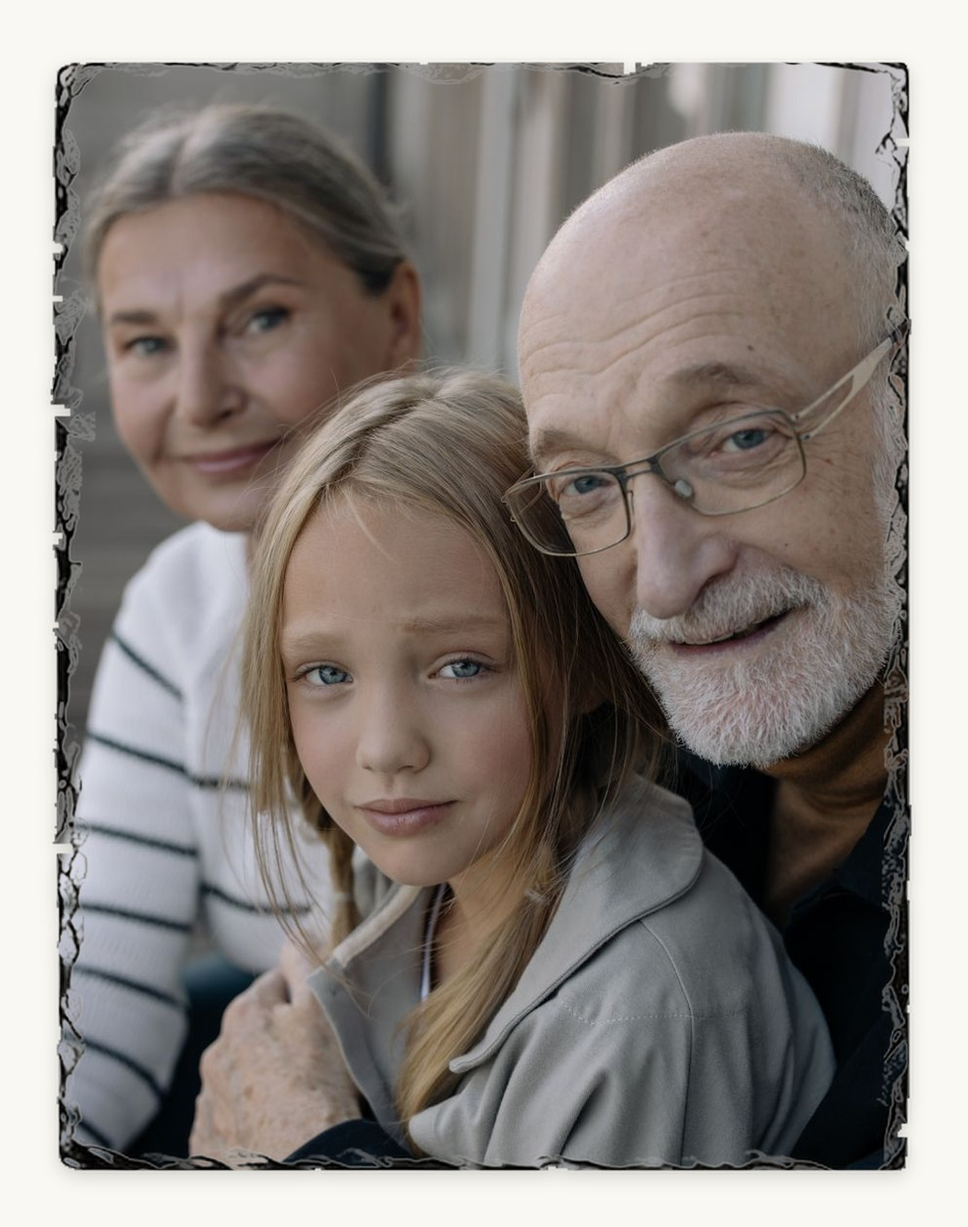
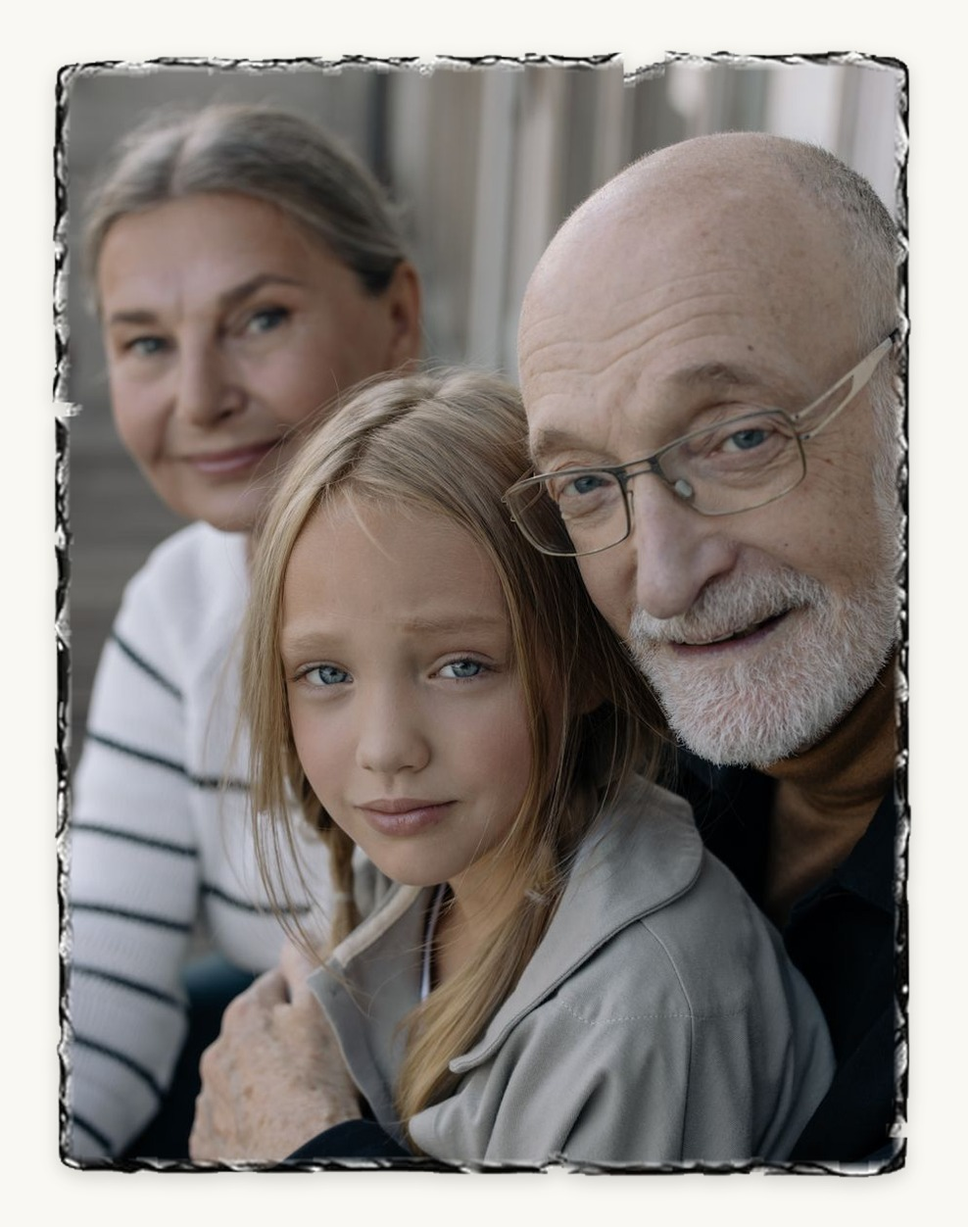
Lead with children's artwork on photographed cases and fix slate sample gaps

Changed region(s): [[0.0607, 0.0312, 0.9413, 0.9657], [0.0304, 0.1246, 0.0911, 0.8722]]

diff --git a/index.html b/index.html
@@ -27,46 +27,61 @@
 <section class="case-edit" aria-roledescription="carousel" aria-labelledby="hero-title">
   <h1 id="hero-title" class="edit-status">Featured Keepsake phone cases</h1>
   <div class="edit-window">
-      <article class="case-slide scene-city scene-new-york" role="group" aria-roledescription="slide" aria-label="1 of 8: New York, Times Square Rain">
+      <article class="case-slide scene-drawing" role="group" aria-roledescription="slide" aria-label="1 of 9: I love you Dad">
         <div class="case-story">
-          <button type="button" class="edit-phone hero-case-zoom" aria-label="Enlarge Times Square Rain"><img src="assets/collection-cases/city-night-new-york.webp" width="382" height="760" alt="" fetchpriority="high"></button>
+          <a class="edit-phone drawing-product" href="customizer.html?studio=drawing&amp;model=iphone-15-pro-max#personalStudio" aria-label="Make a case from your child’s drawing">
+            <img id="drawingHeroCase" src="assets/home/personal/drawing-shell.webp" width="912" height="1731" fetchpriority="high" alt="A clear case with an open camera cutout and the original coral I love you Dad note, complete with its hand-drawn stick figure">
+          </a>
+          <div class="campaign-copy">
+            <span class="campaign-collection">Your child’s artwork, printed on a case</span>
+            <strong class="campaign-title">“I love you Dad”</strong>
+            <div class="drawing-actions">
+              <a class="campaign-shop" href="customizer.html?studio=drawing&amp;model=iphone-15-pro-max#personalStudio">Make your own case</a>
+              <button class="hero-case-zoom drawing-zoom" type="button" data-image-zoom="drawingHeroCase" aria-label="Enlarge the I love you Dad case">Zoom</button>
+            </div>
+          </div>
+        </div>
+      </article>
+      <article class="case-slide scene-city scene-new-york" role="group" aria-roledescription="slide" aria-label="2 of 9: New York, Times Square Rain" hidden>
+        <div class="case-story">
+          <button type="button" class="edit-phone hero-case-zoom" aria-label="Enlarge Times Square Rain"><img src="assets/home/case-edit/new-york-shell.webp" width="912" height="1731" alt="" loading="lazy"></button>
           <div class="campaign-copy">
             <span class="campaign-collection">City After Dark · New York</span>
             <strong class="campaign-title">Times Square Rain</strong>
             <div class="campaign-actions">
-              <a class="campaign-shop" href="customizer.html?model=iphone-18-pro-max&amp;design=city-night-new-york.jpg" aria-label="Customize this case, Times Square Rain">Customize this case</a>
+              <a class="campaign-shop" href="customizer.html?model=iphone-15-pro-max&amp;design=city-night-new-york.jpg" aria-label="Customize this case, Times Square Rain">Customize this case</a>
               <a class="campaign-browse" href="gallery.html?cat=City%20Scenes">Shop all City After Dark</a>
             </div>
           </div>
         </div>
       </article>
-      <article class="case-slide scene-city scene-philadelphia" role="group" aria-roledescription="slide" aria-label="2 of 8: Philadelphia, City Hall in Silver" hidden>
+      <article class="case-slide scene-city scene-philadelphia" role="group" aria-roledescription="slide" aria-label="3 of 9: Philadelphia, City Hall in Silver" hidden>
         <div class="case-story">
-          <button type="button" class="edit-phone hero-case-zoom" aria-label="Enlarge City Hall in Silver"><img src="assets/collection-cases/city-night-philadelphia.webp" width="382" height="760" alt="" loading="lazy"></button>
+          <button type="button" class="edit-phone hero-case-zoom" aria-label="Enlarge City Hall in Silver"><img src="assets/home/case-edit/philadelphia-shell.webp" width="912" height="1731" alt="" loading="lazy"></button>
           <div class="campaign-copy">
             <span class="campaign-collection">City After Dark · Philadelphia</span>
             <strong class="campaign-title">City Hall in Silver</strong>
             <div class="campaign-actions">
-              <a class="campaign-shop" href="customizer.html?model=iphone-18-pro-max&amp;design=city-night-philadelphia.jpg" aria-label="Customize this case, City Hall in Silver">Customize this case</a>
+              <a class="campaign-shop" href="customizer.html?model=iphone-15-pro-max&amp;design=city-night-philadelphia.jpg" aria-label="Customize this case, City Hall in Silver">Customize this case</a>
               <a class="campaign-browse" href="gallery.html?cat=City%20Scenes">Shop all City After Dark</a>
             </div>
           </div>
         </div>
       </article>
-      <article class="case-slide scene-city scene-los-angeles" role="group" aria-roledescription="slide" aria-label="3 of 8: Los Angeles, Freeway Lights" hidden>
+      <article class="case-slide scene-city scene-los-angeles" role="group" aria-roledescription="slide" aria-label="4 of 9: Los Angeles, Freeway Lights" hidden>
         <div class="case-story">
-          <button type="button" class="edit-phone hero-case-zoom" aria-label="Enlarge Freeway Lights"><img src="assets/collection-cases/city-night-los-angeles.webp" width="382" height="760" alt="" loading="lazy"></button>
+          <button type="button" class="edit-phone hero-case-zoom" aria-label="Enlarge Freeway Lights"><img src="assets/home/case-edit/los-angeles-shell.webp" width="912" height="1731" alt="" loading="lazy"></button>
           <div class="campaign-copy">
             <span class="campaign-collection">City After Dark · Los Angeles</span>
             <strong class="campaign-title">Freeway Lights</strong>
             <div class="campaign-actions">
-              <a class="campaign-shop" href="customizer.html?model=iphone-18-pro-max&amp;design=city-night-los-angeles.jpg" aria-label="Customize this case, Freeway Lights">Customize this case</a>
+              <a class="campaign-shop" href="customizer.html?model=iphone-15-pro-max&amp;design=city-night-los-angeles.jpg" aria-label="Customize this case, Freeway Lights">Customize this case</a>
               <a class="campaign-browse" href="gallery.html?cat=City%20Scenes">Shop all City After Dark</a>
             </div>
           </div>
         </div>
       </article>
-      <article class="case-slide scene-yosemite" role="group" aria-roledescription="slide" aria-label="4 of 8: Yosemite" style="--wash:#213932;--accent:#fff" data-alt-art="blaze-topo.webp" data-alt-variant="blaze-topo" data-alt-label="Shop Blaze Topo" hidden>
+      <article class="case-slide scene-yosemite" role="group" aria-roledescription="slide" aria-label="5 of 9: Yosemite" style="--wash:#213932;--accent:#fff" data-alt-art="blaze-topo.webp" data-alt-variant="blaze-topo" data-alt-label="Shop Blaze Topo" hidden>
         <div class="case-story">
           <button type="button" class="edit-phone hero-case-zoom" aria-label="Enlarge Yosemite"><svg viewBox="0 0 528 1078" aria-hidden="true" focusable="false">
 <defs><clipPath id="shell-yosemite"><path d="M114 13H414Q511 13 511 115V959Q511 1055 419 1055H111Q15 1055 15 960V117Q15 13 114 13Z"/></clipPath>
@@ -80,7 +95,7 @@
           </div>
         </div>
       </article>
-      <article class="case-slide" role="group" aria-roledescription="slide" aria-label="5 of 8: Cherry Dot" style="--wash:#f5d1d9;--accent:#b32140" hidden >
+      <article class="case-slide" role="group" aria-roledescription="slide" aria-label="6 of 9: Cherry Dot" style="--wash:#f5d1d9;--accent:#b32140" hidden >
         <div class="case-story">
           <button type="button" class="edit-phone hero-case-zoom" aria-label="Enlarge Cherry Dot"><svg viewBox="0 0 528 1078" aria-hidden="true" focusable="false">
 <defs><clipPath id="shell-0"><path d="M114 13H414Q511 13 511 115V959Q511 1055 419 1055H111Q15 1055 15 960V117Q15 13 114 13Z"/></clipPath>
@@ -94,7 +109,7 @@
           </div>
         </div>
       </article>
-      <article class="case-slide scene-hearts" role="group" aria-roledescription="slide" aria-label="6 of 8: Neon Hearts" style="--wash:#242044;--accent:#fff" hidden data-alt-art="neon-ice.webp" data-alt-variant="c2" data-alt-label="Shop Ice Pop">
+      <article class="case-slide scene-hearts" role="group" aria-roledescription="slide" aria-label="7 of 9: Neon Hearts" style="--wash:#242044;--accent:#fff" hidden data-alt-art="neon-ice.webp" data-alt-variant="c2" data-alt-label="Shop Ice Pop">
         <div class="case-story">
           <button type="button" class="edit-phone hero-case-zoom" aria-label="Enlarge Neon Hearts"><svg viewBox="0 0 528 1078" aria-hidden="true" focusable="false">
 <defs><clipPath id="shell-hearts"><path d="M114 13H414Q511 13 511 115V959Q511 1055 419 1055H111Q15 1055 15 960V117Q15 13 114 13Z"/></clipPath>
@@ -108,7 +123,7 @@
           </div>
         </div>
       </article>
-      <article class="case-slide" role="group" aria-roledescription="slide" aria-label="7 of 8: Wrong Way Duck" style="--wash:#c6e8cd;--accent:#215b43" hidden >
+      <article class="case-slide" role="group" aria-roledescription="slide" aria-label="8 of 9: Wrong Way Duck" style="--wash:#c6e8cd;--accent:#215b43" hidden >
         <div class="case-story">
           <button type="button" class="edit-phone hero-case-zoom" aria-label="Enlarge Wrong Way Duck"><svg viewBox="0 0 528 1078" aria-hidden="true" focusable="false">
 <defs><clipPath id="shell-1"><path d="M114 13H414Q511 13 511 115V959Q511 1055 419 1055H111Q15 1055 15 960V117Q15 13 114 13Z"/></clipPath>
@@ -122,7 +137,7 @@
           </div>
         </div>
       </article>
-      <article class="case-slide" role="group" aria-roledescription="slide" aria-label="8 of 8: Liquid Prism" style="--wash:#dcd4fb;--accent:#512f89" hidden >
+      <article class="case-slide" role="group" aria-roledescription="slide" aria-label="9 of 9: Liquid Prism" style="--wash:#dcd4fb;--accent:#512f89" hidden >
         <div class="case-story">
           <button type="button" class="edit-phone hero-case-zoom" aria-label="Enlarge Liquid Prism"><svg viewBox="0 0 528 1078" aria-hidden="true" focusable="false">
 <defs><clipPath id="shell-2"><path d="M114 13H414Q511 13 511 115V959Q511 1055 419 1055H111Q15 1055 15 960V117Q15 13 114 13Z"/></clipPath>
@@ -151,11 +166,11 @@
 <section class="section collection-feature" aria-labelledby="collections-title"><div class="section-heading"><div><p class="eyebrow">A STYLE FOR EVERY SIDE OF YOU</p><h2 id="collections-title">Find your next favorite.</h2></div><a class="text-link" href="gallery.html">Browse the library →</a></div><div class="collection-tiles"><a href="gallery.html?cat=Christmas"><img src="assets/designs/thumbs/christmas-festive-holiday-deer-and-botanical.jpg" width="440" height="520" loading="lazy" alt=""><span><small>THE HOLIDAY EDIT</small><strong>A little merry.</strong><b>Shop holiday →</b></span></a><a href="gallery.html?cat=Neon%20Doodles"><img src="assets/designs/thumbs/kp-neon-neon-recess.png" width="440" height="520" loading="lazy" alt=""><span><small>COLOR OUTSIDE THE LINES</small><strong>More is more.</strong><b>Shop neon doodles →</b></span></a><a href="seasonal-weather.html#rain"><img src="assets/designs/thumbs/kp-weather-window-seat.jpg" width="270" height="540" loading="lazy" alt="Raindrops on a window overlooking a green garden"><span><small>SEASONAL WEATHER</small><strong>Window Seat</strong><b>Explore the four scenes →</b></span></a></div><p class="section-note">Artwork details shown. Select your phone to see the case preview.</p></section>
 <section class="section collection-feature field-collections" aria-labelledby="field-title"><div class="section-heading"><h2 id="field-title">The photography collections.</h2></div><div class="collection-tiles"><a href="gallery.html?cat=Earth%20From%20Orbit"><img loading="lazy" src="assets/designs/thumbs/field-photo-yukon-delta-0.jpg" width="420" height="640" alt="Branching blue channels across the Yukon Delta"><span><strong>Earth From Orbit</strong><b>Explore the Landsat photographs →</b></span></a><a href="gallery.html?cat=Botanical%20Blueprints"><img loading="lazy" src="assets/designs/thumbs/field-photo-291506.jpg" width="420" height="640" alt="Pale branching seaweed on deep Prussian blue"><span><strong>Botanical Blueprints</strong><b>Explore Anna Atkins’s cyanotypes →</b></span></a></div></section>
 <section class="section collection-feature" aria-labelledby="personal-title"><div class="section-heading"><h2 id="personal-title">Made from your story.</h2></div><div class="collection-tiles personal-tiles">
-<a data-preview-link href="customizer.html?studio=drawing#personalStudio"><img src="assets/home/personal/drawing-case.webp" width="285" height="580" loading="lazy" alt="A coral handwritten I love you Dad note and stick figure fitted beneath the case camera"><span><strong>Their drawing, your case.</strong><b>Try your child’s artwork →</b></span></a>
-<a data-preview-link href="customizer.html?studio=sky#personalStudio"><img src="assets/home/personal/sky-case.webp" width="285" height="580" loading="lazy" alt="Edge-to-edge star map with a couple’s initials and linked zodiac signs on a midnight blue case"><span><strong>The night we met.</strong><b>Map your date →</b></span></a>
+<a data-preview-link href="customizer.html?studio=drawing&amp;model=iphone-15-pro-max#personalStudio"><img src="assets/home/personal/drawing-shell.webp" width="912" height="1731" loading="lazy" alt="The original coral I love you Dad drawing on a clear MagSafe case with a raised camera rim"><span><strong>Their drawing, your case.</strong><b>Try your child’s artwork →</b></span></a>
+<a data-preview-link href="customizer.html?studio=sky&amp;model=iphone-15-pro-max#personalStudio"><img src="assets/home/personal/sky-shell.webp" width="912" height="1731" loading="lazy" alt="Edge-to-edge star map with a couple’s initials and linked zodiac signs on a midnight blue case"><span><strong>The night we met.</strong><b>Map your date →</b></span></a>
 <a data-preview-link href="signature-golf.html"><img src="assets/home/signature-golf/pebble-original.webp?v=overhead" width="277" height="580" loading="lazy" alt="Overhead map of all 18 holes at Pebble Beach on a rugged case"><span><strong>Signature golf.</strong><b>Shop golf cases →</b></span></a>
 </div></section>
-<section class="gift-feature" aria-labelledby="gift-title"><div class="gift-photo"><span class="gift-tag">THE PHOTO GIFT EDIT</span><img src="assets/photos/slates/family-slate-preview.jpg" width="1252" height="988" loading="lazy" alt="Digital sample of a family photo on a slate with natural stone edges"><p>Digital preview on photographed slate. Each stone has its own edge.</p></div><div class="gift-copy"><p class="eyebrow">Off your camera roll. Into their everyday.</p><h2 id="gift-title">Some moments<br>deserve a<br><em>permanent spot.</em></h2><p>Your favorite people, printed on natural slate. Sized for a first apartment, a bedside shelf, or the desk you see every day.</p><div class="gift-price">From <strong>$29.99</strong><span>Three sizes · Display supports included</span></div><a class="button button-ink" href="slates.html">Discover photo slates <span aria-hidden="true">↗</span></a></div></section>
+<section class="gift-feature" aria-labelledby="gift-title"><div class="gift-photo"><span class="gift-tag">THE PHOTO GIFT EDIT</span><img src="assets/photos/slates/family-slate-preview.jpg?v=solid-stone-2" width="1252" height="988" loading="lazy" alt="Digital sample of a family photo on a slate with natural stone edges"><p>Digital preview on photographed slate. Each stone has its own edge.</p></div><div class="gift-copy"><p class="eyebrow">Off your camera roll. Into their everyday.</p><h2 id="gift-title">Some moments<br>deserve a<br><em>permanent spot.</em></h2><p>Your favorite people, printed on natural slate. Sized for a first apartment, a bedside shelf, or the desk you see every day.</p><div class="gift-price">From <strong>$29.99</strong><span>Three sizes · Display supports included</span></div><a class="button button-ink" href="slates.html">Discover photo slates <span aria-hidden="true">↗</span></a></div></section>
 <section class="section how-section" id="how-it-works" aria-labelledby="how-title"><div class="section-heading"><div><p class="eyebrow">Made personal. Made simple.</p><h2 id="how-title">From “love that”<br>to “that’s mine.”</h2></div><p>Browse here. Make it yours with our team.</p></div><ol class="steps"><li><span class="step-number">01</span><h3>Find your favorite.</h3><p>Explore the design library, or bring an original photo from your phone.</p></li><li><span class="step-number">02</span><h3>Make it personal.</h3><p>Choose your phone or gift size. Check the colorway, crop and any added name with a team member.</p></li><li><span class="step-number">03</span><h3>We’ll take it from here.</h3><p>Order at the counter. We’ll confirm case or slate availability and pickup timing before printing.</p></li></ol><a class="text-link" href="instore/">Already in store? Open the browsing screen ↗</a></section>
 <section class="glass-band" aria-labelledby="glass-title"><div><p class="eyebrow">A good pair</p><h2 id="glass-title">Your case. A little extra protection.</h2></div><p>Add tempered glass for <strong>$19.99</strong> with a case.<br><span>Normally $29.99 · Save $10 · $64.98 together · No sales tax at Newark pickup · PA tax applies at PA pickup.</span></p></section>
 <section class="section store-section" id="stores" aria-labelledby="store-title"><div class="section-heading"><div><p class="eyebrow">Your local Keepsake counter</p><h2 id="store-title">Come make something yours.</h2></div><p>Find us inside CPR Cell Phone Repair.<br>Ask our team about stock and pickup timing.</p></div><div class="store-grid"><a href="help.html#west-chester"><span>01 / PENNSYLVANIA</span><h3>West Chester</h3><p>Store help &amp; contact <span aria-hidden="true">↗</span></p></a><a href="help.html#pottstown"><span>02 / PENNSYLVANIA</span><h3>Pottstown</h3><p>Store help &amp; contact <span aria-hidden="true">↗</span></p></a><a href="help.html#newark"><span>03 / DELAWARE</span><h3>Newark</h3><p>Store help &amp; contact <span aria-hidden="true">↗</span></p></a></div></section>

diff --git a/slates.html b/slates.html
@@ -1,7 +1,7 @@
 <!doctype html>
 <html lang="en"><head><meta charset="utf-8"><meta name="viewport" content="width=device-width,initial-scale=1"><title>Personalized Photo Slates — Keepsake Printing Co.</title><meta name="description" content="Your favorite photo printed on natural slate. Three sizes from $29.99, with a display stand and optional name or date. Available to order in store at Keepsake."><link rel="canonical" href="https://cjbates516.github.io/keepsake-prototype/slates.html"><link rel="icon" href="assets/favicon.svg" type="image/svg+xml"><link rel="stylesheet" href="assets/slates.css"><script src="assets/slate-products.js" defer></script><script src="assets/slates.js" defer></script><link rel="stylesheet" href="assets/shop-menu.css"><script src="assets/seasonal-visibility.js"></script><script src="assets/shop-menu.js" defer></script></head>
 <body class="slate-page"><header class="slate-header"><a class="slate-brand" href="index.html">KEEPSAKE</a><nav aria-label="Main navigation"><a href="gallery.html">Phone cases</a><a href="gifts.html">Gift guide</a></nav></header>
-<main><section class="slate-hero"><div><p class="slate-eyebrow">Photo gifts · made personal</p><h1>A memory.<br>A little more<br><em>permanent.</em></h1><p>Your favorite people, places and four-legged friends. Printed on natural slate, with a stand for your desk or shelf.</p><a class="slate-button" href="#sizes">Find your size ↓</a><p>From <strong>$29.99</strong> · Display supports included</p></div><div class="slate-art"><figure><div class="slate-sample"><img src="assets/photos/slates/family-slate-preview.jpg" width="1252" height="988" fetchpriority="high" alt="Sample digital slate mockup with parents and their child, natural stone edges"></div><figcaption><strong>Sample preview</strong> · Digital mockup on the supplier’s photographed stone. Natural edges and printed colors vary.</figcaption></figure></div></section>
+<main><section class="slate-hero"><div><p class="slate-eyebrow">Photo gifts · made personal</p><h1>A memory.<br>A little more<br><em>permanent.</em></h1><p>Your favorite people, places and four-legged friends. Printed on natural slate, with a stand for your desk or shelf.</p><a class="slate-button" href="#sizes">Find your size ↓</a><p>From <strong>$29.99</strong> · Display supports included</p></div><div class="slate-art"><figure><div class="slate-sample"><img src="assets/photos/slates/family-slate-preview.jpg?v=solid-stone-2" width="1252" height="988" fetchpriority="high" alt="Sample digital slate mockup with parents and their child, natural stone edges"></div><figcaption><strong>Sample preview</strong> · Digital mockup on the supplier’s photographed stone. Natural edges and printed colors vary.</figcaption></figure></div></section>
 <section class="slate-section slate-product" id="yosemite" aria-labelledby="yosemiteTitle">
   <div><h2 id="yosemiteTitle">Yosemite Valley</h2><p>El Capitan frames the valley in this landscape photograph from Tunnel View.</p>
   <p><strong>8 × 10 inch photo slate · $49.99</strong><br>Display supports included.</p>
@@ -71,7 +71,7 @@
 </section>
 <section class="slate-section slate-product" aria-labelledby="slateProductTitle"><div><p class="slate-eyebrow">See the slate itself</p><h2 id="slateProductTitle">Stone edges.<br>A keepsake you can hold.</h2><p>This supplier view of the 8 × 10 slate shows the coated front, natural stone back, textured edge and included display stands.</p><p>Each piece of stone has its own edge. The family examples on this page are digital previews; your own photo is printed on your slate.</p></div><figure><a href="assets/photos/slates/supplier-8x10-details.jpg" aria-label="View the full-size 8 by 10 slate product details"><img src="assets/photos/slates/supplier-8x10-details.jpg" width="1500" height="1500" loading="lazy" alt="Supplier detail views of the 8 by 10 slate: white coated front, chipped stone edge, dark stone back and two black display stands"></a><figcaption>8 × 10 slate · <a href="https://www.amazon.com/dp/B0CW8597S7">WANZELONYO supplier product image</a>. Tap the image for a closer look.</figcaption></figure></section>
 <section class="slate-section slate-memory" aria-labelledby="memoryTitle">
-<figure class="slate-memory-figure"><div class="slate-sample slate-sample-portrait"><img src="assets/photos/slates/grandparents-slate-preview.jpg" width="988" height="1252" loading="lazy" alt="Sample digital slate mockup with grandparents and their granddaughter, natural stone edges"></div><figcaption><strong>Sample preview</strong> · Digital mockup on the supplier’s photographed stone. Natural edges and printed colors vary.</figcaption></figure>
+<figure class="slate-memory-figure"><div class="slate-sample slate-sample-portrait"><img src="assets/photos/slates/grandparents-slate-preview.jpg?v=solid-stone-2" width="988" height="1252" loading="lazy" alt="Sample digital slate mockup with grandparents and their granddaughter, natural stone edges"></div><figcaption><strong>Sample preview</strong> · Digital mockup on the supplier’s photographed stone. Natural edges and printed colors vary.</figcaption></figure>
 <div><p class="slate-eyebrow">For the people who mean everything</p><h2 id="memoryTitle">Their favorite faces.<br>Always close.</h2><p>A family hug. A new grandbaby. That afternoon everyone was together. Turn a photo from your phone into a gift they can keep in view.</p><p>Bring your own photo. We’ll help choose the orientation and crop before printing.</p><a class="slate-button" href="#sizes">Choose a slate size ↓</a></div>
 </section>
 <section class="slate-section" id="sizes"><p class="slate-eyebrow">Three sizes. One thoughtful gift.</p><h2>Make room for your favorite moment.</h2><p class="slate-included">Every slate includes display supports, one photo, basic cropping, and an optional name or date. Natural stone edges vary from piece to piece.</p>

diff --git a/assets/homepage.css b/assets/homepage.css
@@ -266,6 +266,10 @@ h1,h2,h3{font-family:var(--display)}
   color: #fff;
   background: linear-gradient(90deg, #090d16e8, #090d164d 70%), var(--city-photo) var(--scene-position) / cover, #10141d;
 }
+.scene-city .case-story::before {
+  content:"";position:absolute;inset:-5px;z-index:-1;pointer-events:none;
+  background:inherit;filter:blur(3px) brightness(.76) saturate(.78);
+}
 .scene-city .edit-phone {object-fit: contain;}
 .scene-city .campaign-copy {position: static; grid-area: 2 / 2; width: auto;}
 .campaign-actions {display: flex; flex-wrap: wrap; align-items: center; gap: 0 16px;}
@@ -302,3 +306,15 @@ a.case-story:hover .campaign-shop,a.case-story:focus-visible .campaign-shop,.cam
 .hero-case-zoom :is(img,svg) {display:block;width:100%;height:100%;object-fit:contain;}
 
 .field-collections .collection-tiles{grid-template-columns:repeat(2,minmax(0,1fr))}.field-collections .collection-tiles>a{background:#f2eee9}.field-collections .collection-tiles img{object-position:50% 56%}@media(max-width:600px){.field-collections .collection-tiles{grid-template-columns:1fr}}
+
+.scene-drawing {--wash:#f4d7c7;--accent:#3e211e}
+.drawing-product {z-index:1;display:block}
+.drawing-product img {display:block;width:100%;height:100%;object-fit:contain}
+.drawing-actions {display:flex;align-items:center;gap:20px}
+.scene-drawing .campaign-shop {background:#3e211e;color:#fff}
+.drawing-actions .drawing-zoom {color:inherit;font:700 15px var(--body);min-height:44px;text-decoration:underline;text-underline-offset:4px}
+@media(max-width:650px) and (orientation:portrait){
+  .scene-drawing .case-story {display:grid;grid-template-rows:minmax(0,1fr) auto;gap:8px;padding:14px 7% 5svh}
+  .scene-drawing .drawing-product {position:static;place-self:center;width:78%;height:92%;min-height:0}
+  .scene-drawing .campaign-copy {position:static;width:100%}
+}

diff --git a/assets/night-sky.js b/assets/night-sky.js
@@ -154,7 +154,7 @@ window.KPNightSky = (function () {
   }
   function mount(host, hooks) {
     host.innerHTML = `<h2>Map a special night</h2><p>Choose the date and place to map the bright stars above that horizon. Use 9:00 PM for an evening estimate.</p>
-    <details class="sky-example"><summary>See a finished example</summary><button type="button" id="skyExampleZoom" aria-label="Enlarge the finished example"><img src="assets/home/personal/sky-case-detail.webp" loading="lazy" alt="Gemini and Libra on a case with the night sky above West Chester on June 14, 2019" width="402" height="800"><span>Enlarge example</span></button></details>
+    <details class="sky-example"><summary>See a finished example</summary><button type="button" id="skyExampleZoom" aria-label="Enlarge the finished example"><img src="assets/home/personal/sky-shell.webp" loading="lazy" alt="Gemini and Libra on a case with the night sky above West Chester on June 14, 2019" width="912" height="1731"><span>Enlarge example</span></button></details>
     <form id="skyForm"><label>Occasion<select name="occasion"><option>The night we met</option><option>Our wedding night</option><option>Under the same sky</option><option>The night you were born</option></select></label>
     <div class="studio-pair"><label>Date<input name="date" type="date" min="1900-01-01" max="2100-12-31" required></label><label>Local time<input type="time" name="time" value="21:00" required></label></div>
     <label>Town, city or island<input name="query" type="search" aria-describedby="skyPlaceHint" placeholder="Search for a place" autocomplete="off"></label>

diff --git a/assets/shop-menu.js b/assets/shop-menu.js
@@ -11,8 +11,8 @@
   ['Signature Golf','Course maps and Sunday Scramble','signature-golf.html','assets/home/signature-golf/pebble-original.webp'],
   ['National Parks','Illustrations and real park photos','parks-rugged.html','assets/home/parks-rugged/acadia-original.webp'],
   ['Design your own','Use a photo from your phone','customizer.html','assets/photos/i17PM-hero.jpg'],
-  ['Children’s artwork','Turn their drawing into a case','customizer.html?studio=drawing#personalStudio','assets/home/personal/drawing-case.webp'],
-  ['Night sky','Map a special date and place','customizer.html?studio=sky#personalStudio','assets/home/personal/sky-case.webp'],
+  ['Children’s artwork','Turn their drawing into a case','customizer.html?studio=drawing#personalStudio','assets/home/personal/drawing-shell.webp'],
+  ['Night sky','Map a special date and place','customizer.html?studio=sky#personalStudio','assets/home/personal/sky-shell.webp'],
   ['Seasonal Weather','Rain, frost, autumn and summer prints','seasonal-weather.html','assets/home/seasonal-weather/rain-original.webp'],
   ['Photo slates','Personalized stone prints','slates.html','assets/photos/slates/yosemite-valley-print.jpg']
  ];

diff --git a/tools/build_slate_samples.py b/tools/build_slate_samples.py
@@ -1,0 +1,63 @@
+"""Composite the two marketing photographs onto the photographed supplier slate."""
+from pathlib import Path
+
+import numpy as np
+from PIL import Image, ImageFilter, ImageOps
+
+ASSETS = Path(__file__).resolve().parents[1] / 'assets/photos/slates'
+RESAMPLE = Image.Resampling.LANCZOS
+
+
+def edge_positions(lines):
+    # A light spot on a chipped edge can have no dark pixels. Interpolate the
+    # boundary from its neighbors instead of punching a slit through the stone.
+    dark = lines[:, :18] < 164
+    found = np.flatnonzero(dark.any(axis=1))
+    if not len(found):
+        raise ValueError('Could not locate the slate perimeter')
+    positions = np.interp(np.arange(len(lines)), found, dark[found].argmax(axis=1))
+    padded = np.pad(positions, 5, mode='edge')
+    return np.median(np.lib.stride_tricks.sliding_window_view(padded, 11), axis=1)
+
+
+def slate_masks(stone):
+    value = np.asarray(stone.convert('L'))
+    height, width = value.shape
+    y, x = np.indices(value.shape)
+    distance = np.minimum.reduce([
+        x - edge_positions(value)[:, None],
+        width - 1 - x - edge_positions(value[:, ::-1])[:, None],
+        y - edge_positions(value.T)[None, :],
+        height - 1 - y - edge_positions(value.T[:, ::-1])[None, :],
+    ])
+    silhouette = Image.fromarray((255 * np.clip(distance + 1, 0, 1)).astype('uint8'))
+    # Only the chipped perimeter contributes supplier pixels. The measurement
+    # lettering and every other interior pixel must be replaced by the photo.
+    interior = np.clip((distance - 2) / 6, 0, 1)
+    ink = Image.fromarray((255 * interior).astype('uint8'))
+    assert silhouette.crop((24, 24, width - 24, height - 24)).getextrema() == (255, 255)
+    assert ink.crop((26, 26, width - 26, height - 26)).getextrema() == (255, 255)
+    return silhouette, ink
+
+
+def build(name, source, landscape, focus):
+    stone = Image.open(ASSETS / 'supplier-8x10-details.jpg').convert('RGB').crop((150, 271, 600, 854))
+    silhouette, ink = slate_masks(stone)
+    if landscape:
+        stone, silhouette, ink = (im.transpose(Image.Transpose.ROTATE_90) for im in (stone, silhouette, ink))
+    size = (1156, 892) if landscape else (892, 1156)
+    stone, silhouette, ink = (im.resize(size, RESAMPLE) for im in (stone, silhouette, ink))
+    photo = ImageOps.fit(Image.open(ASSETS / source).convert('RGB'), size, RESAMPLE, centering=focus)
+    product = Image.composite(photo, stone, ink)
+    canvas = Image.new('RGB', (size[0] + 96, size[1] + 96), '#faf8f2')
+    shadow = Image.new('L', canvas.size)
+    shadow.paste(silhouette, (48, 54))
+    shadow = shadow.filter(ImageFilter.GaussianBlur(9)).point(lambda v: v // 5)
+    canvas.paste('#292724', (0, 0, *canvas.size), shadow)
+    canvas.paste(product, (48, 48), silhouette)
+    canvas.save(ASSETS / (name + '-slate-preview.jpg'), quality=92, optimize=True)
+
+
+if __name__ == '__main__':
+    build('family', 'family-outdoors.jpg', True, (.5, .45))
+    build('grandparents', 'grandparents.jpg', False, (.5, .31))
